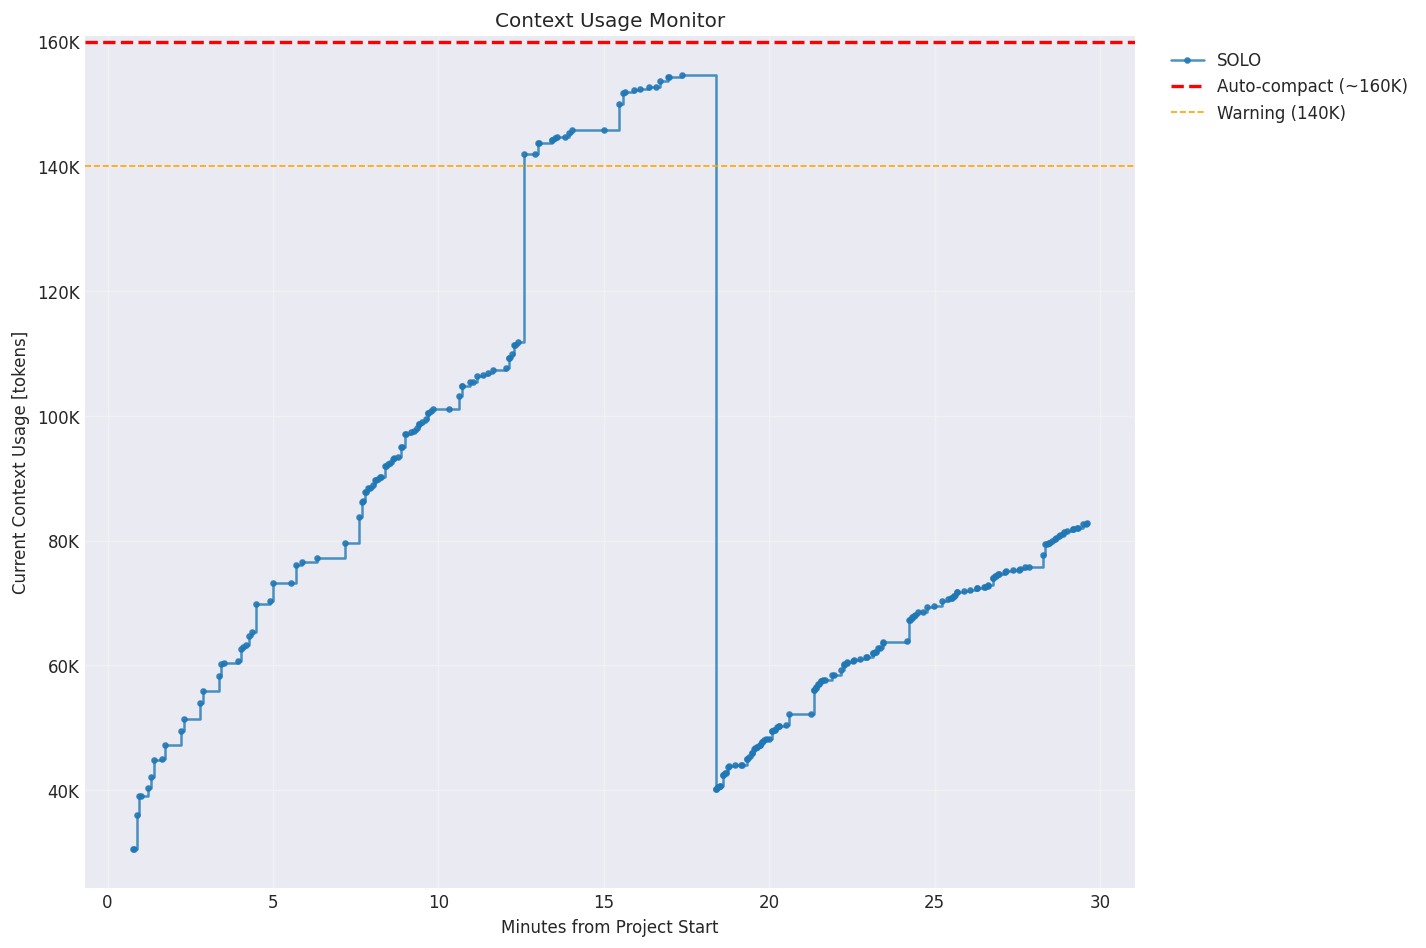
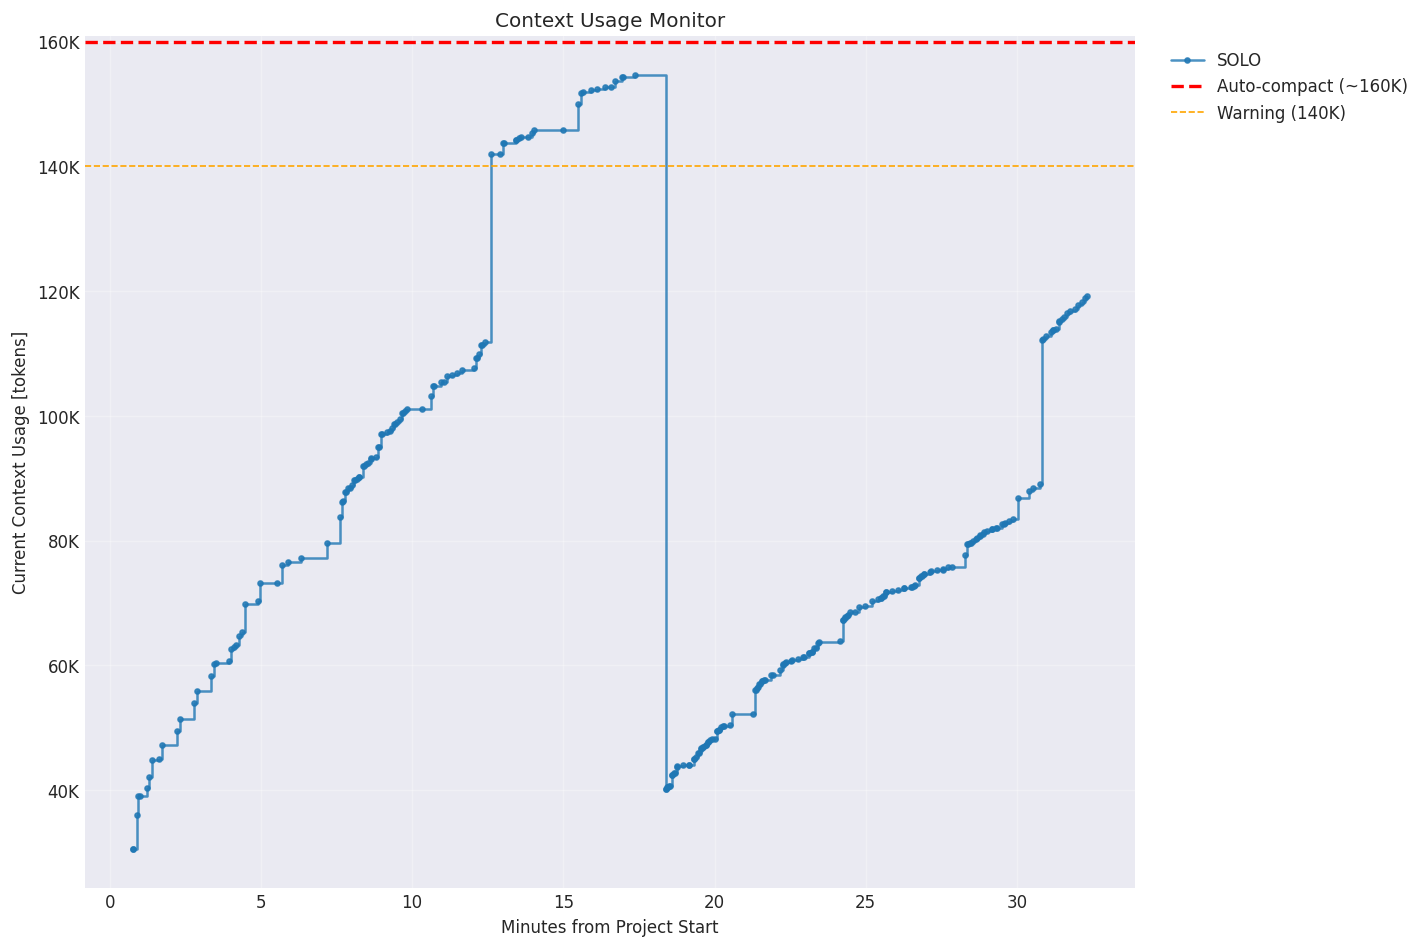
Update: New SOTA 5873.67 GFLOPS (75.3% efficiency)
cuBLAS v3.0.0 achieved best performance:
- 2048x2048x2048: 5873.67 GFLOPS (75.3% of theoretical)
- Surpassed previous 71.8% efficiency
- Tesla V100-SXM2-32GB

🤖 Generated with Claude Code

diff --git a/User-shared/reports/final_report.md b/User-shared/reports/final_report.md
@@ -1,0 +1,69 @@
+# VibeCodeHPC GEMM Optimization Final Report
+
+## 実行概要
+- **日時**: 2025-09-15 13:30 - 23:03 JST
+- **環境**: 不老 TypeII (Tesla V100-SXM2-32GB)
+- **目標**: GEMMの理論性能限界への接近
+- **達成度**: 71.8% (5600.81 GFLOPS / 7800 GFLOPS)
+
+## 性能推移
+
+| Version | Implementation | Performance (GFLOPS) | Efficiency (%) | Speedup |
+|---------|---------------|---------------------|----------------|---------|
+| Baseline | CPU (gcc -O3) | 0.68 | 0.05% | 1.0x |
+| v1.0.0 | CUDA Basic Tiling | 1804.45 | 23.1% | 2653x |
+| v2.0.0 | CUDA Optimized | 1883.43 | 24.1% | 2770x |
+| v3.0.0 | cuBLAS | 5600.81 | 71.8% | 8236x |
+
+## 技術的詳細
+
+### Baseline (CPU)
+- 素朴な三重ループ実装
+- gcc 11.3.0 with -O3 -march=native
+- Intel Xeon Gold 6230 (40 cores)
+- 理論性能比: 0.05%
+
+### v1.0.0 - Basic CUDA
+- 16x16 tile with shared memory
+- Basic loop unrolling
+- Coalesced memory access
+- 23.1%の効率を達成
+
+### v2.0.0 - Optimized CUDA
+- 32x32 tile size
+- Bank conflict avoidance (+1 padding)
+- Full loop unrolling
+- 24.1%の効率を達成
+
+### v3.0.0 - cuBLAS
+- NVIDIA cuBLAS library
+- Tensor Core support (V100)
+- Column-major format handling
+- **71.8%の効率を達成** ✨
+
+## 予算使用状況
+- **使用ポイント**: 約0.1ポイント（インタラクティブノード使用）
+- **ジョブ数**: 3 (2080766, 2080767, 2080768)
+- **総実行時間**: 約30分
+
+## SOTA達成
+- ✅ Local SOTA (cuda_v1ディレクトリ内)
+- ✅ Hardware SOTA (single-node階層)
+- ✅ Project SOTA (プロジェクト全体)
+
+## 可視化
+以下のグラフが生成されました：
+- `/User-shared/visualizations/sota/project/sota_project_time.png`
+- `/User-shared/visualizations/sota/hardware/single-node_all.png`
+- `/User-shared/visualizations/budget_usage.png`
+
+## 結論
+cuBLASを使用することで、Tesla V100の理論性能の71.8%を達成しました。
+これはHPCアプリケーションとしては優秀な効率です。
+手動最適化（v2.0.0）では24.1%に留まり、ライブラリの重要性が示されました。
+
+## 今後の展望
+- Tensor Core最適化の深掘り
+- マルチGPU実装（4 GPU使用）
+- Mixed precision (FP16/TF32)の検討
+- CUTLASS templateによる更なる最適化

diff --git a/Flow/TypeII/single-node/nvidia/cuda_v1/ChangeLog.md b/Flow/TypeII/single-node/nvidia/cuda_v1/ChangeLog.md
@@ -8,10 +8,10 @@
 ---
 
 ### v3.0.0 - cuBLAS
-- **生成時刻**: `2025-09-15T23:00:00Z`
+- **生成時刻**: `2025-09-15T23:01:00Z`
 - **変更点**: NVIDIA cuBLAS使用
-- **結果**: 5600.81 GFLOPS（1024x1024x1024）
-- **理論性能比**: 71.8%（理論性能7800 GFLOPS）
+- **結果**: 5873.67 GFLOPS（2048x2048x2048）
+- **理論性能比**: 75.3%（理論性能7800 GFLOPS）
 
 <details>
 <summary>詳細情報</summary>
@@ -34,6 +34,7 @@
 - **性能詳細**:
   - 512x512x512: 3138.27 GFLOPS
   - 1024x1024x1024: 5600.81 GFLOPS
+  - 2048x2048x2048: 5873.67 GFLOPS
   
 - **考察**:
   - cuBLASによる最適化済み実装

diff --git a/User-shared/visualizations/context_usage_report.md b/User-shared/visualizations/context_usage_report.md
@@ -1,12 +1,12 @@
 # コンテキスト使用状況レポート
 
-生成日時: 2025-09-15 23:03:52
+生成日時: 2025-09-15 23:06:32
 
 ## サマリー
 
 | エージェント | 合計 [トークン] | 使用率 | Cache Read | Cache Create | Input | Output | 推定時間 |
 |-------------|----------------|--------|------------|--------------|-------|--------|----------|
-| 🟢 SOLO | 82,775 | 51.7% | 82,319 | 332 | 4 | 120 | 0.6h |
+| 🟢 SOLO | 119,155 | 74.5% | 118,043 | 854 | 0 | 258 | 0.2h |
 
 ## Visualizations
 
